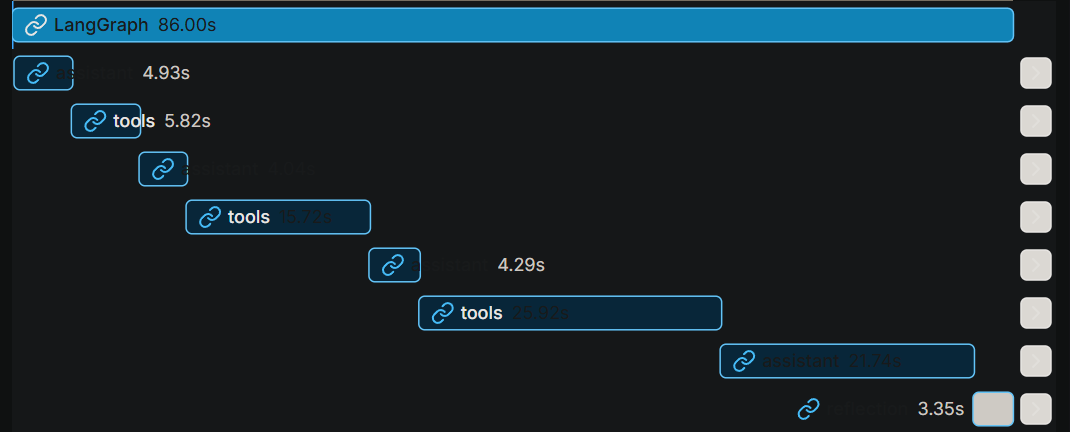
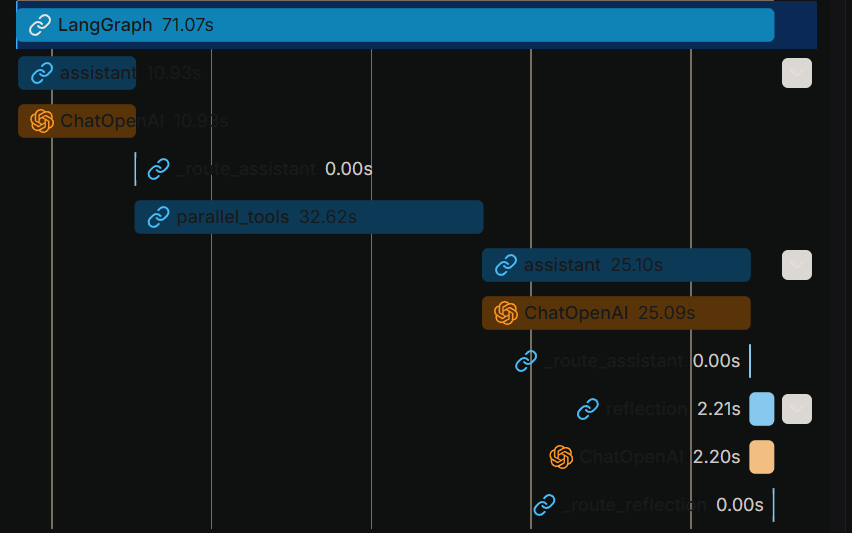
feat: parallel tools, streaming output, updated README and architecture

diff --git a/app.py b/app.py
@@ -3,91 +3,92 @@ import pypdf
 import io
 import uuid
 from langchain_core.messages import HumanMessage, AIMessage
-from agent import graph
+from agent import graph, stream_graph_updates
 
-st.title("PRD需求评审Agent")
-st.caption("上传你的PRD文档，获得专业评审报告")
+st.title("PRD 需求评审 Agent")
+st.caption("上传 PRD 文档，获得 RAG 增强的结构化评审报告")
 
-# 初始化会话状态
+# ── 会话状态初始化 ─────────────────────────────────────────────────────────
 if "messages" not in st.session_state:
     st.session_state.messages = []
-
 if "thread_id" not in st.session_state:
     st.session_state.thread_id = str(uuid.uuid4())
+if "analyzed" not in st.session_state:
+    st.session_state.analyzed = False   # 防止上传后重复触发分析
 
 config = {"configurable": {"thread_id": st.session_state.thread_id}}
 
-# 顶部放清除按钮
-if st.button("清除对话，重新开始"):
+# ── 清除对话 ───────────────────────────────────────────────────────────────
+if st.button("🗑 清除对话，重新开始"):
     st.session_state.messages = []
     st.session_state.thread_id = str(uuid.uuid4())
+    st.session_state.analyzed = False
     st.rerun()
 
-# 显示历史消息
+# ── 历史消息 ───────────────────────────────────────────────────────────────
 for msg in st.session_state.messages:
     with st.chat_message(msg["role"]):
-        st.write(msg["content"])
+        st.markdown(msg["content"])
 
-# 上传文件
-uploaded_file = st.file_uploader("上传PRD文档", type=["txt", "pdf"])
+# ── 文件上传 ───────────────────────────────────────────────────────────────
+uploaded_file = st.file_uploader(
+    "上传 PRD 文档（支持 PDF / TXT）",
+    type=["txt", "pdf"],
+    # key 绑定 thread_id，清除对话后自动重置上传区
+    key=f"uploader_{st.session_state.thread_id}",
+)
 
-if uploaded_file:
+if uploaded_file and not st.session_state.analyzed:
+    # 解析文件内容
     if uploaded_file.name.endswith(".pdf"):
         pdf_reader = pypdf.PdfReader(io.BytesIO(uploaded_file.read()))
-        content = ""
-        for page in pdf_reader.pages:
-            content += page.extract_text()
+        content = "\n".join(
+            page.extract_text() or "" for page in pdf_reader.pages
+        )
     else:
         content = uploaded_file.read().decode("utf-8", errors="ignore")
 
-    st.success("文档上传成功")
+    if content.strip():
+        st.success(f"✅ 文档解析成功，共 {len(content)} 字符")
 
-    if st.button("开始分析"):
-        with st.spinner("分析中..."):
-            message = HumanMessage(
-                content=f"请分析这份PRD文档：\n\n{content}"
-            )
-            result = graph.invoke({"messages": [message]}, config)
+        if st.button("🚀 开始分析"):
+            # 标记已分析，防止 rerun 重复触发
+            st.session_state.analyzed = True
 
-            last_ai_message = None
-            for m in reversed(result["messages"]):
-                if isinstance(m, AIMessage) and m.content:
-                    last_ai_message = m.content
-                    break
+            user_msg = "已上传 PRD 文档，请开始评审"
+            st.session_state.messages.append({"role": "user", "content": user_msg})
 
-            if last_ai_message:
-                st.session_state.messages.append({
-                    "role": "user",
-                    "content": "已上传PRD文档，请分析"
-                })
-                st.session_state.messages.append({
-                    "role": "assistant",
-                    "content": last_ai_message
-                })
-                st.rerun()
+            prompt = f"请分析这份PRD文档：\n\n{content}"
 
-# 追问功能
-user_input = st.chat_input("继续追问...")
-if user_input:
-    st.session_state.messages.append({
-        "role": "user",
-        "content": user_input
-    })
+            # 流式输出
+            with st.chat_message("assistant"):
+                response = st.write_stream(
+                    stream_graph_updates(prompt, config)
+                )
 
-    with st.spinner("思考中..."):
-        message = HumanMessage(content=user_input)
-        result = graph.invoke({"messages": [message]}, config)
-
-        last_ai_message = None
-        for m in reversed(result["messages"]):
-            if isinstance(m, AIMessage) and m.content:
-                last_ai_message = m.content
-                break
-
-        if last_ai_message:
             st.session_state.messages.append({
                 "role": "assistant",
-                "content": last_ai_message
+                "content": response,
             })
+            st.rerun()
+    else:
+        st.error("文档内容为空，请检查文件")
 
-    st.rerun()
+# ── 追问输入（始终显示，分析前也可以直接提问）──────────────────────────────
+user_input = st.chat_input("上传文档后可继续追问...")
+if user_input:
+        st.session_state.messages.append({"role": "user", "content": user_input})
+        with st.chat_message("user"):
+            st.markdown(user_input)
+
+        # 追问也用流式
+        with st.chat_message("assistant"):
+            response = st.write_stream(
+                stream_graph_updates(user_input, config)
+            )
+
+        st.session_state.messages.append({
+            "role": "assistant",
+            "content": response,
+        })
+        st.rerun()

diff --git a/rag_store.py b/rag_store.py
@@ -129,13 +129,8 @@ def retrieve_standards(query: str, category: str = None, k: int = 3) -> list[str
     :param k: 返回条数
     """
     store = _get_standards_store()
-    # langchain-chroma 单条件直接传字段名即可，多条件才需要 $and
-    if category:
-        filter_dict = {"category": category}
-    else:
-        filter_dict = None
-
-    results = store.similarity_search(query, k=k, filter=filter_dict)
+    # 知识库只有5条，直接语义搜索，查询语句本身已能区分category
+    results = store.similarity_search(query, k=k)
     return [doc.page_content for doc in results]
 
 
